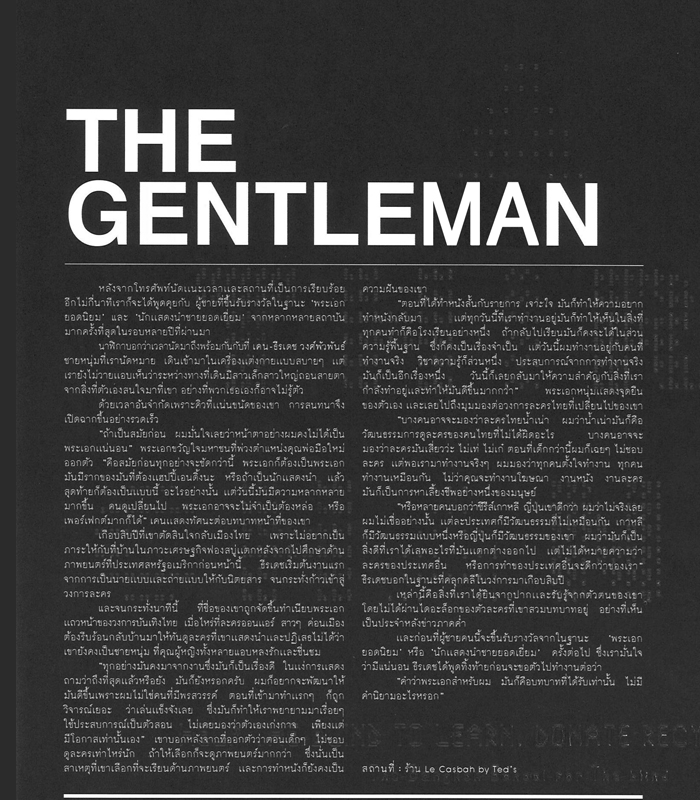
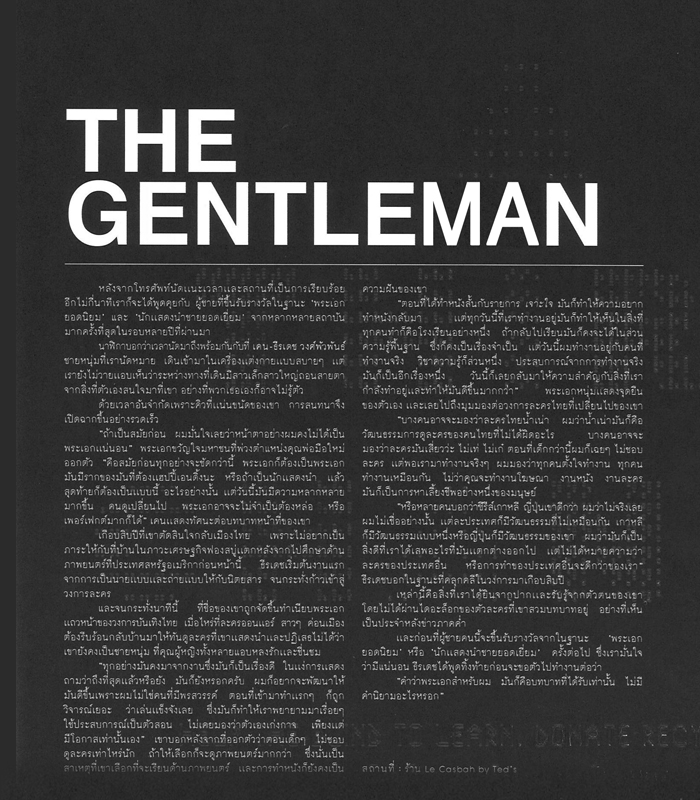
updated backgrounds for mag

Changed region(s): [[0.09, 0.9375, 0.93, 1.0]]

diff --git a/src/app/components/Home.js b/src/app/components/Home.js
@@ -108,7 +108,7 @@ const StyledEarrings = styled.div`
     width: 100%;
     height: 100%;
     background: url(${MagEarringsBack}) fixed;
-    background-position:1% 2.5vh;
+    background-position:1% 4vh;
     background-size: contain;
     -webkit-mask: url(${MagEarrings});
     -webkit-mask-size: 100% 100%;
